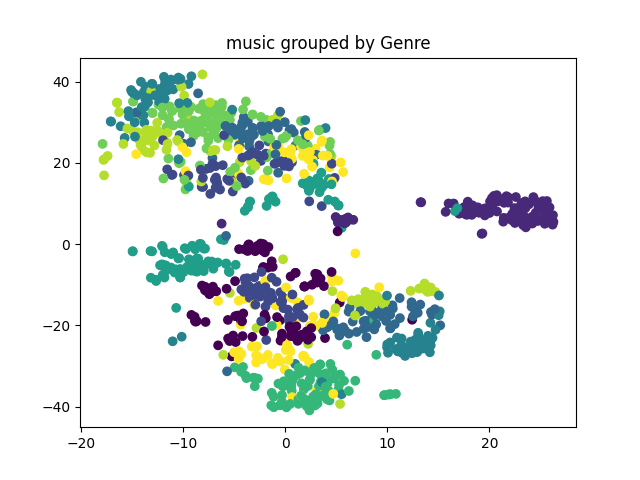
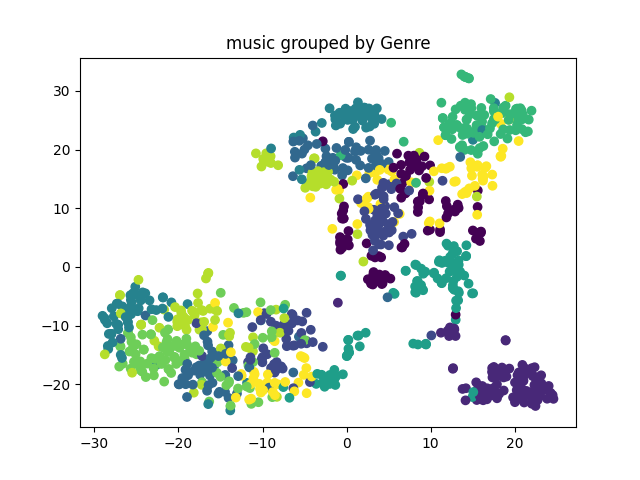
tested perperplexity with out early exaduration

diff --git a/src/main.py b/src/main.py
@@ -40,7 +40,7 @@ for file in os.listdir(embeding_dir):
     i += 1
 print(emb_list.shape)
 
-pca = TSNE(n_components=2,perplexity=50, early_exaggeration = 30)
+pca = TSNE(n_components=2,perplexity=50)
 x=pca.fit_transform(emb_list)
 
 label_encoder = LabelEncoder()
